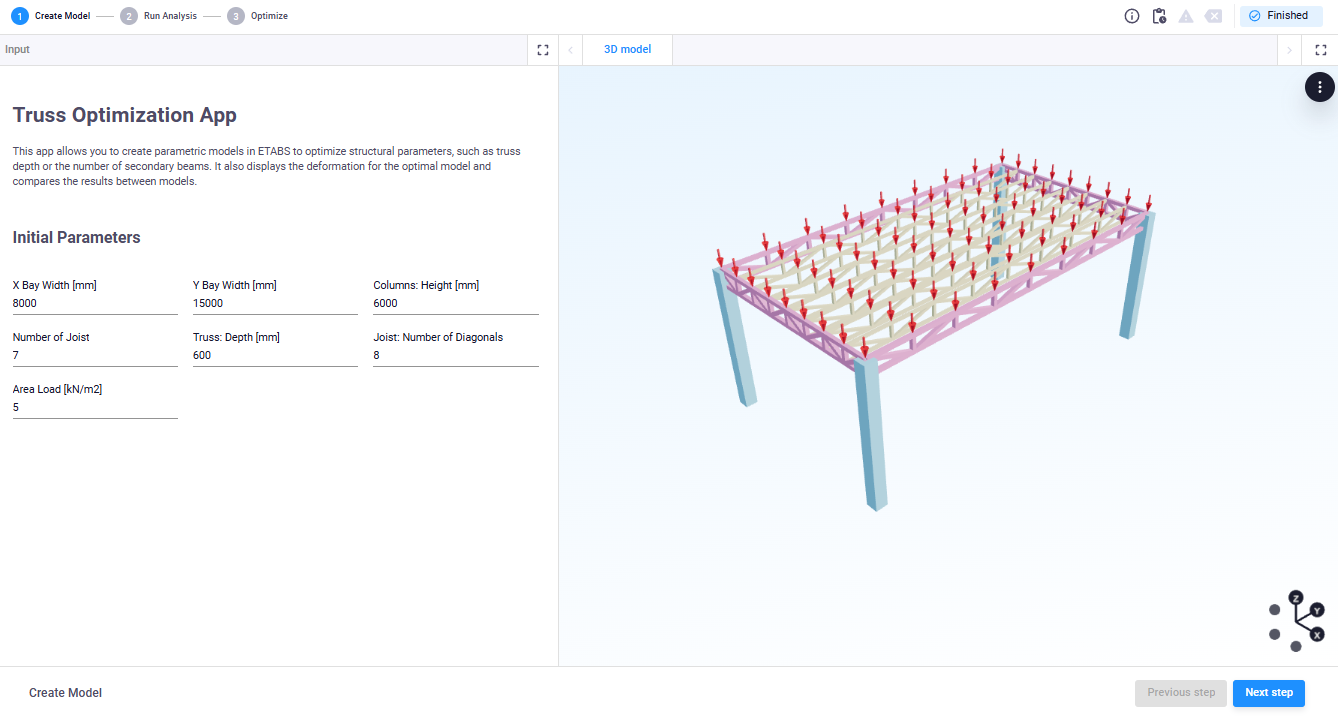
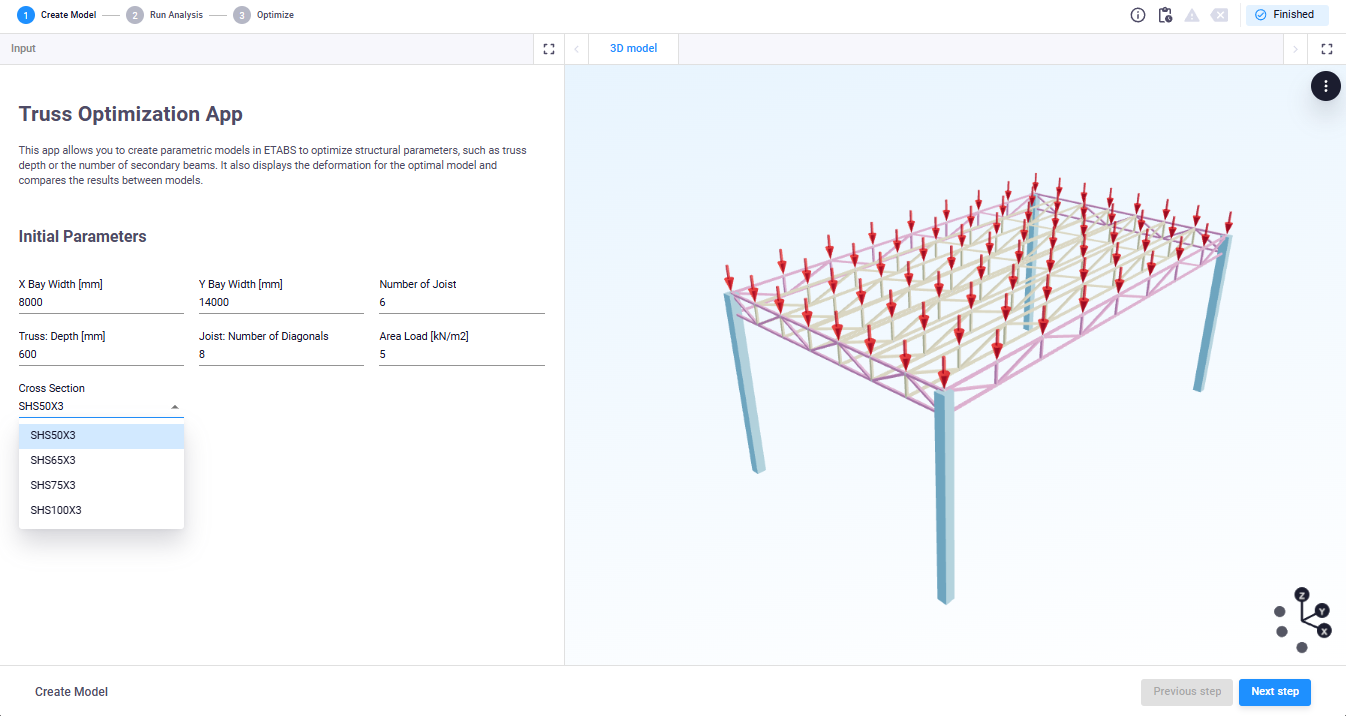
feat: Add DataView and calculate emissions

diff --git a/app/controller.py b/app/controller.py
@@ -9,17 +9,19 @@ from viktor.core import File
 from viktor.external.generic import GenericAnalysis
 
 from app.structure import generate_model
-from app.optimization import plot_displacement_vs_truss_depth, calculate_variants, generate_variants
-from app.vizualisation import render_frame_elements, create_load_arrow
+from app.optimization import plot_displacement_vs_truss_depth, calculate_variants, generate_variants, mass_co2_from_model
+from app.visualization import render_frame_elements, create_load_arrow
+from app.visualization import sections_db
 
 SF = 20
 COLOR_BY = "component"
+COLUMN_HEIGHT = 6000
 color_dict = {
     "Truss": vkt.Material(color=vkt.Color(r=255, g=105, b=180)),  # Bright Pastel Pink
     "Column": vkt.Material(color=vkt.Color(r=100, g=200, b=250)),  # Bright Pastel Blue
     "Joist": vkt.Material(color=vkt.Color(r=255, g=220, b=130)),  # Bright Pastel Yellow
 }
-section_dict = {"Truss": 150, "Column": 500, "Joist": 100}
+section_dict = {"Truss": 150, "Column": 300, "Joist": 100}
 
 
 class Parametrization(vkt.Parametrization):
@@ -35,22 +37,14 @@ class Parametrization(vkt.Parametrization):
     )
     step_1.title = vkt.Text("## Initial Parameters")
     step_1.x_bay_width = vkt.NumberField("X Bay Width [mm]", min=2000, default=8000)
-    step_1.y_bay_width = vkt.NumberField("Y Bay Width [mm]", min=2000, default=15000)
-    step_1.columns_height = vkt.NumberField("Columns: Height [mm]", min=3000, default=6000)
-    step_1.n_joist = vkt.NumberField("Number of Joist", min=1.5, default=7)
+    step_1.y_bay_width = vkt.NumberField("Y Bay Width [mm]", min=2000, default=14000)
+    step_1.n_joist = vkt.NumberField("Number of Joist", min=1.5, default=6)
     step_1.truss_depth = vkt.NumberField("Truss: Depth [mm]", min=300, default=600)
     step_1.joist_n_diags = vkt.NumberField("Joist: Number of Diagonals", min=5, default=8)
     step_1.area_load = vkt.NumberField("Area Load [kN/m2]", min=1.5, max=7, default=5)
+    step_1.section = vkt.OptionField("Cross Section", options= list(sections_db.keys()), default =list(sections_db.keys())[0]) 
 
     step_2 = vkt.Step("Run Analysis", views=["run_model"], width=30)
-    step_2.text = vkt.Text(
-        dedent(
-            """
-            ## Results!
-            The following view shows the deformed shape for the optimal model with the lowest displacement. The next view, **Model Comparison**, shows the deformation for each of the analyzed models and displays the allowable limit.
-            """
-        )
-    )
 
     step_3 = vkt.Step("Optimize", width=40)
     step_3.txt_tile = vkt.Text("# Optimization Settings")
@@ -82,11 +76,13 @@ class Controller(vkt.Controller):
             params.step_1.x_bay_width,
             params.step_1.y_bay_width,
             params.step_1.n_joist + 1,
-            params.step_1.columns_height,
+            COLUMN_HEIGHT,
             params.step_1.joist_n_diags,
             params.step_1.area_load,
         )
         # Render Structure
+        selected_section = sections_db[params.step_1.section]["depth"]
+        section_dict = {"Truss":selected_section , "Column": 300, "Joist": selected_section}
         sections_group = render_frame_elements(lines, nodes, color_dict, section_dict, COLOR_BY)
         # Render loads
         for node_id in nodes_with_load:
@@ -97,14 +93,14 @@ class Controller(vkt.Controller):
 
         return vkt.GeometryResult(geometry=sections_group)
 
-    @vkt.GeometryView("Deformed model", duration_guess=1, x_axis_to_right=True)
+    @vkt.GeometryAndDataView("Deformed model", duration_guess=1, x_axis_to_right=True)
     def run_model(self, params, **kwargs) -> vkt.GeometryResult:
         nodes, lines, nodes_with_load, supports, point_load = generate_model(
             params.step_1.truss_depth,
             params.step_1.x_bay_width,
             params.step_1.y_bay_width,
             params.step_1.n_joist + 1,
-            params.step_1.columns_height,
+            COLUMN_HEIGHT,
             params.step_1.joist_n_diags,
             params.step_1.area_load,
         )
@@ -116,6 +112,8 @@ class Controller(vkt.Controller):
                 "nodes_with_load": nodes_with_load,
                 "load_magnitud": point_load,
                 "supports": supports,
+                "section_name": params.step_1.section,
+                "section_props": sections_db[params.step_1.section]
             }
         )
         # Run Etabs model with worker
@@ -131,9 +129,11 @@ class Controller(vkt.Controller):
             nj = str(dict_vals["nodeI"])
             defo_ni = results_data[0]["deformations"][str(ni)]
             defo_nj = results_data[0]["deformations"][str(nj)]
-
             opt_model["lines"][line_id].update({"deformation": 0.5 * (abs(defo_ni) + abs(defo_nj))})
 
+        max_defo = abs(results_data[0]["max_defo"])
+        selected_section = sections_db[params.step_1.section]["depth"]
+        section_dict = {"Truss":selected_section , "Column": 300, "Joist": selected_section}
         sections_group = render_frame_elements(
             lines=opt_model["lines"],
             nodes=opt_model["nodes"],
@@ -141,33 +141,51 @@ class Controller(vkt.Controller):
             section_dict=section_dict,
             COLOR_BY=COLOR_BY,
             deformation=True,
-            max_defo=abs(results_data[0]["max_defo"]),
+            max_defo=max_defo,
         )
 
-        return vkt.GeometryResult(geometry=sections_group)
+
+        #Data results
+        total_mass, element_count, total_co2_emission  = mass_co2_from_model(lines=opt_model["lines"], nodes = opt_model["nodes"], section_name=params.step_1.section, sections_db=sections_db)
+
+        data_result = vkt.DataGroup(
+            vkt.DataItem("Output","Model Results", subgroup=vkt.DataGroup(
+                    vkt.DataItem("Total mass", total_mass, suffix="kg", number_of_decimals=2),
+                    vkt.DataItem("Number of Steel Members", element_count, suffix="-", number_of_decimals=2),
+                    vkt.DataItem("Total Co2 Emissions", total_co2_emission, suffix="Co2(kg)", number_of_decimals=2),
+                    vkt.DataItem("Max. Displacement", max_defo, suffix="mm", number_of_decimals=3),
+                    )
+            )
+        )
+
+        return vkt.GeometryAndDataResult(sections_group,data_result)
 
     def optimal_curve(self, params, **kwargs) -> vkt.OptimizationResult:
         variants = generate_variants(params, **kwargs)
         models = []
+        co2s = []
         for variant in variants:
             nodes, lines, nodes_with_load, supports, point_load = generate_model(
                 variant["truss_depth_value"],
                 variant["x_bay_width"],
                 variant["y_bay_width"],
                 variant["joist_value"],
-                variant["columns_height"],
+                COLUMN_HEIGHT,
                 variant["joist_n_diags"],
                 variant["area_load"],
             )
             models.append(
                 {
-                    "nodes": nodes,
-                    "lines": lines,
-                    "nodes_with_load": nodes_with_load,
-                    "load_magnitud": point_load,
-                    "supports": supports,
-                }
-            )
+                "nodes": nodes,
+                "lines": lines,
+                "nodes_with_load": nodes_with_load,
+                "load_magnitud": point_load,
+                "supports": supports,
+                "section_name": params.step_1.section,
+                "section_props": sections_db[params.step_1.section]
+            })
+            _, _, total_co2_emission  = mass_co2_from_model(lines=lines, nodes = nodes, section_name=params.step_1.section, sections_db=sections_db)
+            co2s.append(total_co2_emission)
         # Run multiple models
         results_data = self.run_worker(models=models)
         # Generate optimization result image.
@@ -176,14 +194,15 @@ class Controller(vkt.Controller):
         )
         # Generate OptimizationResult: includes images and tables
         results = []
-        for model, result in zip(variants, results_data, strict=True):
+        for model, result,co2 in zip(variants, results_data, co2s,strict=True):
             joist_number = model["joist_value"] - 1
             truss_depth = model["truss_depth_value"]
             max_defo = abs(result["max_defo"])
+
             params = {"step_1": {"truss_depth": truss_depth, "n_joist": joist_number}}
-            results.append(vkt.OptimizationResultElement(params, {"Deformation": round(max_defo, 2)}))
+            results.append(vkt.OptimizationResultElement(params, {"Deformation": round(max_defo, 2),"Emissions (kg Co2)":round(co2,2)}))
         # Pack results
-        output_headers = {"Deformation": "Deformation"}
+        output_headers = {"Deformation": "Deformation","Emissions (kg Co2)":"Emissions (kg Co2)"}
         return vkt.OptimizationResult(
             results,
             ["step_1.truss_depth", "step_1.n_joist"],

diff --git a/tests/etabs_test.py b/tests/etabs_test.py
@@ -6,36 +6,36 @@ from app.run_etabs_model import create_etabs_model, start_etabs
 
 def create_frame_data(length, height):
     nodes = {
-        1: {"node_id": 1, "x": 0, "y": 0, "z": 0},
-        2: {"node_id": 2, "x": 0, "y": length, "z": 0},
-        3: {"node_id": 3, "x": 0, "y": 0, "z": height},
-        4: {"node_id": 4, "x": 0, "y": length, "z": height},
-        5: {"node_id": 5, "x": length, "y": 0, "z": 0},
-        6: {"node_id": 6, "x": length, "y": length, "z": 0},
-        7: {"node_id": 7, "x": length, "y": 0, "z": height},
-        8: {"node_id": 8, "x": length, "y": length, "z": height},
+        1: {"id": 1, "x": 0, "y": 0, "z": 0},
+        2: {"id": 2, "x": 0, "y": length, "z": 0},
+        3: {"id": 3, "x": 0, "y": 0, "z": height},
+        4: {"id": 4, "x": 0, "y": length, "z": height},
+        5: {"id": 5, "x": length, "y": 0, "z": 0},
+        6: {"id": 6, "x": length, "y": length, "z": 0},
+        7: {"id": 7, "x": length, "y": 0, "z": height},
+        8: {"id": 8, "x": length, "y": length, "z": height},
     }
     lines = {
-        1: {"line_id": 1, "node_i": 1, "node_j": 3},
-        2: {"line_id": 2, "node_i": 2, "node_j": 4},
-        3: {"line_id": 3, "node_i": 3, "node_j": 4},
-        4: {"line_id": 4, "node_i": 6, "node_j": 8},
-        5: {"line_id": 5, "node_i": 5, "node_j": 7},
-        6: {"line_id": 6, "node_i": 3, "node_j": 7},
-        7: {"line_id": 7, "node_i": 4, "node_j": 8},
-        8: {"line_id": 8, "node_i": 7, "node_j": 8},
+        1: {"id": 1, "nodeI": 1, "nodeJ": 3},
+        2: {"id": 2, "nodeI": 2, "nodeJ": 4},
+        3: {"id": 3, "nodeI": 3, "nodeJ": 4},
+        4: {"id": 4, "nodeI": 6, "nodeJ": 8},
+        5: {"id": 5, "nodeI": 5, "nodeJ": 7},
+        6: {"id": 6, "nodeI": 3, "nodeJ": 7},
+        7: {"id": 7, "nodeI": 4, "nodeJ": 8},
+        8: {"id": 8, "nodeI": 7, "nodeJ": 8},
     }
 
     input_json = Path.cwd() / "inputs.json"
     with open(input_json, "w") as jsonfile:
-        data = {"nodes": nodes, "lines": lines, "nodes_with_load": [3, 4, 7, 8], "load_magnitud": 1000}
+        data = {"nodes": nodes, "lines": lines, "supports": [1,2,5,6], "load_magnitud": 1000,"section_name":"SHS65X3","section_props":{"depth": 60.0, "thickness": 3.0, "weight/m":5.66}, "nodes_with_load": [7,8,4,5]}
         json.dump(data, jsonfile)
 
     return nodes, lines
 
-
 def test_etabs_model():
-    create_frame_data()
+    # Generates a json inputs.json
+    create_frame_data(length=1000,height=1000)
 
     input_json = Path.cwd() / "inputs.json"
     with open(input_json) as jsonfile:

diff --git a/app/optimization.py b/app/optimization.py
@@ -1,7 +1,7 @@
 import plotly.graph_objects as go
 from plotly.colors import sequential
 from pathlib import Path
-
+COLUMN_HEIGHT = 6000
 
 def calculate_variants(params, **kwargs):
     # Calculate the number of variants for JST
@@ -34,7 +34,7 @@ def generate_variants(params, **kwargs):
                 "joist_value": joist_value + 1,
                 "x_bay_width": params.step_1.x_bay_width,
                 "y_bay_width": params.step_1.y_bay_width,
-                "columns_height": params.step_1.columns_height,
+                "columns_height":COLUMN_HEIGHT,
                 "joist_n_diags": params.step_1.joist_n_diags,
                 "area_load": params.step_1.area_load,
             }
@@ -133,3 +133,24 @@ def plot_displacement_vs_truss_depth(model_data, results_data, allowable_displac
     fig.write_image(str(file_path), format="png")
 
     return file_path
+
+def mass_co2_from_model(lines: dict, nodes: dict, sections_db: dict, section_name: str, co2_factor: float = 1.85):
+    weight_per_meter = sections_db[section_name]["weight/m"]
+    total_mass = 0
+    element_count = 0
+
+    for _, dict_vals in lines.items():
+        node_id_i = dict_vals["nodeI"]
+        node_id_j = dict_vals["nodeJ"]
+
+        node_i = nodes[node_id_i]
+        node_j = nodes[node_id_j]
+
+        length = ((node_j["x"] - node_i["x"])**2 + (node_j["y"] - node_i["y"])**2 + (node_j["z"] - node_i["z"])**2) ** 0.5
+        line_mass = length * weight_per_meter/1000 #/1000 to m
+        total_mass += line_mass
+        element_count += 1
+
+    total_co2_emission = total_mass * co2_factor
+
+    return total_mass, element_count, total_co2_emission

diff --git a/app/run_etabs_model.py b/app/run_etabs_model.py
@@ -22,11 +22,11 @@ def create_etabs_model(EtabsObject, data: dict):
     nodes = data["nodes"]
     lines = data["lines"]
     nodes_with_load = data["nodes_with_load"]
+    section_name = data["section_name"]
+    cross_section = data["section_props"]
 
     for id, node in nodes.items():
         ret, _ = EtabsObject.PointObj.AddCartesian(node["x"], node["y"], node["z"], " ", str(id))
-
-    sections = {"SHS60X3": {"depth": 50.0, "thickness": 6.0}, "EA70x6": {"depth": 70.0, "thickness": 6.0}}
 
     material_name = "S355"
     MATERIAL_STEEL = 1
@@ -34,20 +34,21 @@ def create_etabs_model(EtabsObject, data: dict):
     ret = EtabsObject.PropMaterial.SetMaterial(material_name, MATERIAL_STEEL)
     ret = EtabsObject.PropMaterial.SetMPIsotropic(material_name, 210000, 0.3, 1.2e-5)
 
+    depth = cross_section["depth"]
+    thickness = cross_section["thickness"]
     ret = EtabsObject.PropFrame.SetTube_1(
-        "SHS60X3",
+        section_name,
         material_name,
-        60,
-        60,
-        3,
-        3,
-        3,
+        depth,
+        depth,
+        thickness,
+        thickness,
+        thickness,
     )
 
     for id, line in lines.items():
         point_i = line["nodeI"]
         point_j = line["nodeJ"]
-        section_name = "SHS60X3"
         ret, _ = EtabsObject.FrameObj.AddByPoint(str(point_i), str(point_j), str(id), section_name, "Global")
 
     load_pattern_name = "MyLoadPattern"

diff --git a/app/visualization.py b/app/visualization.py
@@ -92,3 +92,10 @@ def get_color_from_displacement(displacement: float, max_displacement: float, pa
     # Get the RGB color from the discrete colormap
     rgb_color = discrete_cmap(normalized_displacement)[:3]  # Exclude alpha channel
     return tuple(int(x * 255) for x in rgb_color)
+
+
+sections_db = {"SHS50X3": {"depth": 60.0, "thickness": 3.0, "weight/m":4.25},
+               "SHS65X3": {"depth": 60.0, "thickness": 3.0, "weight/m":5.66},
+               "SHS75X3": {"depth": 70.0, "thickness": 3.0, "weight/m":6.6},
+               "SHS100X3": {"depth": 100.0, "thickness": 3.0, "weight/m":8.96}
+               }

diff --git a/README.md b/README.md
@@ -7,14 +7,14 @@ The app includes two optimization features: one for optimizing either the number
 The app follows these three steps:
 
 ## First Step
-As shown in the image below, users can set the initial parameters. They can adjust the width of the structure’s bay along the x and y axes, as well as the column height. The number of joists, truss depth, and diagonal configurations are also adjustable. Finally, an area load with a customizable magnitude is applied to the structure’s top nodes.
+As shown in the image below, users can set the initial parameters. They can adjust the width of the structure’s bay along the x and y axes. The number of joists, truss depth, and diagonal configurations are also adjustable. Finally, an area load with a customizable magnitude is applied to the structure’s top nodes.
 
-The parameters set in this step will be used to run the analysis in ETABS for the current configuration. In the second step, the user will see the deformed shape of the analyzed structure.
+The parameters set in this step will be used to run the analysis in ETABS for the current configuration. In the second step, the user will see the deformed shape of the analyzed structure along with the relevant results.
 
 ![Step 1](.viktor-template/ETABS-Truss-Parametrisation-step1.PNG)
 
 ## Second Step
-The second step triggers the calculation of the structure. An ETABS model is created using the API with the geometry and loads defined in the previous step. After the calculation, the results are displayed in the app, as shown in the image below.
+The second step triggers the calculation of the structure. An ETABS model is created using the API with the geometry and loads defined in the previous step. After the calculation, the results are displayed in the app, as shown in the image below. The app provides a DataView showing the emission and maximum deformation found in the analysis.
 
 ![Step 2](.viktor-template/ETABS-Truss-Parametrisation-step2.PNG)
 
@@ -23,7 +23,7 @@ In this step, users can define settings to optimize two parameters: truss depth 
 
 After setting up all the optimization parameters, the app calculates the number of model variations required. When the optimization button is triggered, each model variation is created in ETABS, and the results are stored and displayed back in the app.
 
-After creating and analyzing the structural models, the app provides a visualization table that displays deformation values associated with the optimization parameters (joist number and truss depth). Additionally, a plot showing deformation vs. truss depth (grouped by joist number) helps users select the optimal model and understand the optimization process. Models that meet the criteria are marked with green dots, while those that do not are marked in red, as shown in the images below.
+After creating and analyzing the structural models, the app provides a visualization table displaying deformation and emission values associated with the optimization parameters (joist number and truss depth). Additionally, a plot showing deformation vs. truss depth (grouped by joist number) helps users select the optimal model and understand the optimization process. Models that meet the criteria are marked with green dots, while those that do not are marked in red, as shown in the images below.
 
 ![Step 3a](.viktor-template/ETABS-Truss-Parametrisation-step3a.PNG)
 
